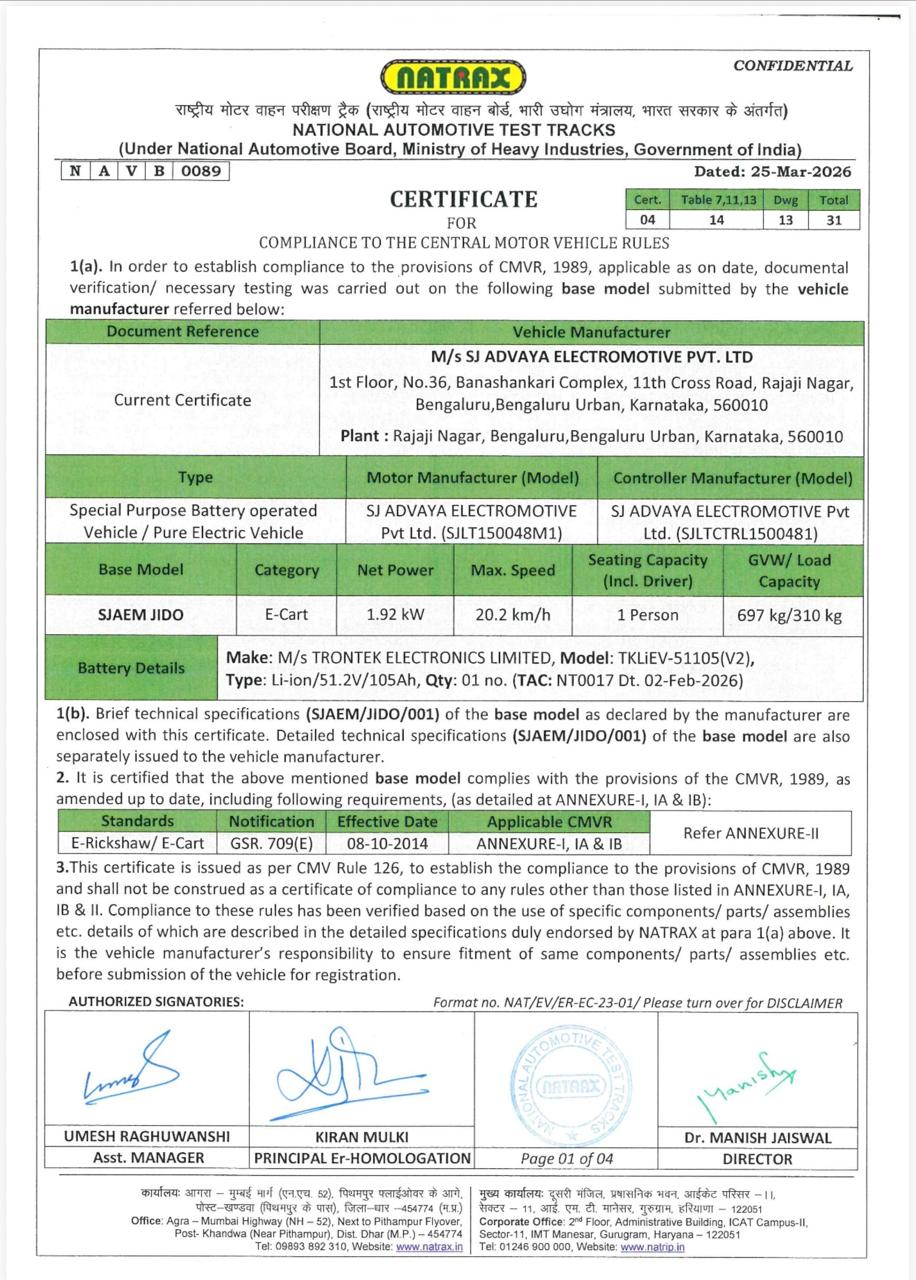
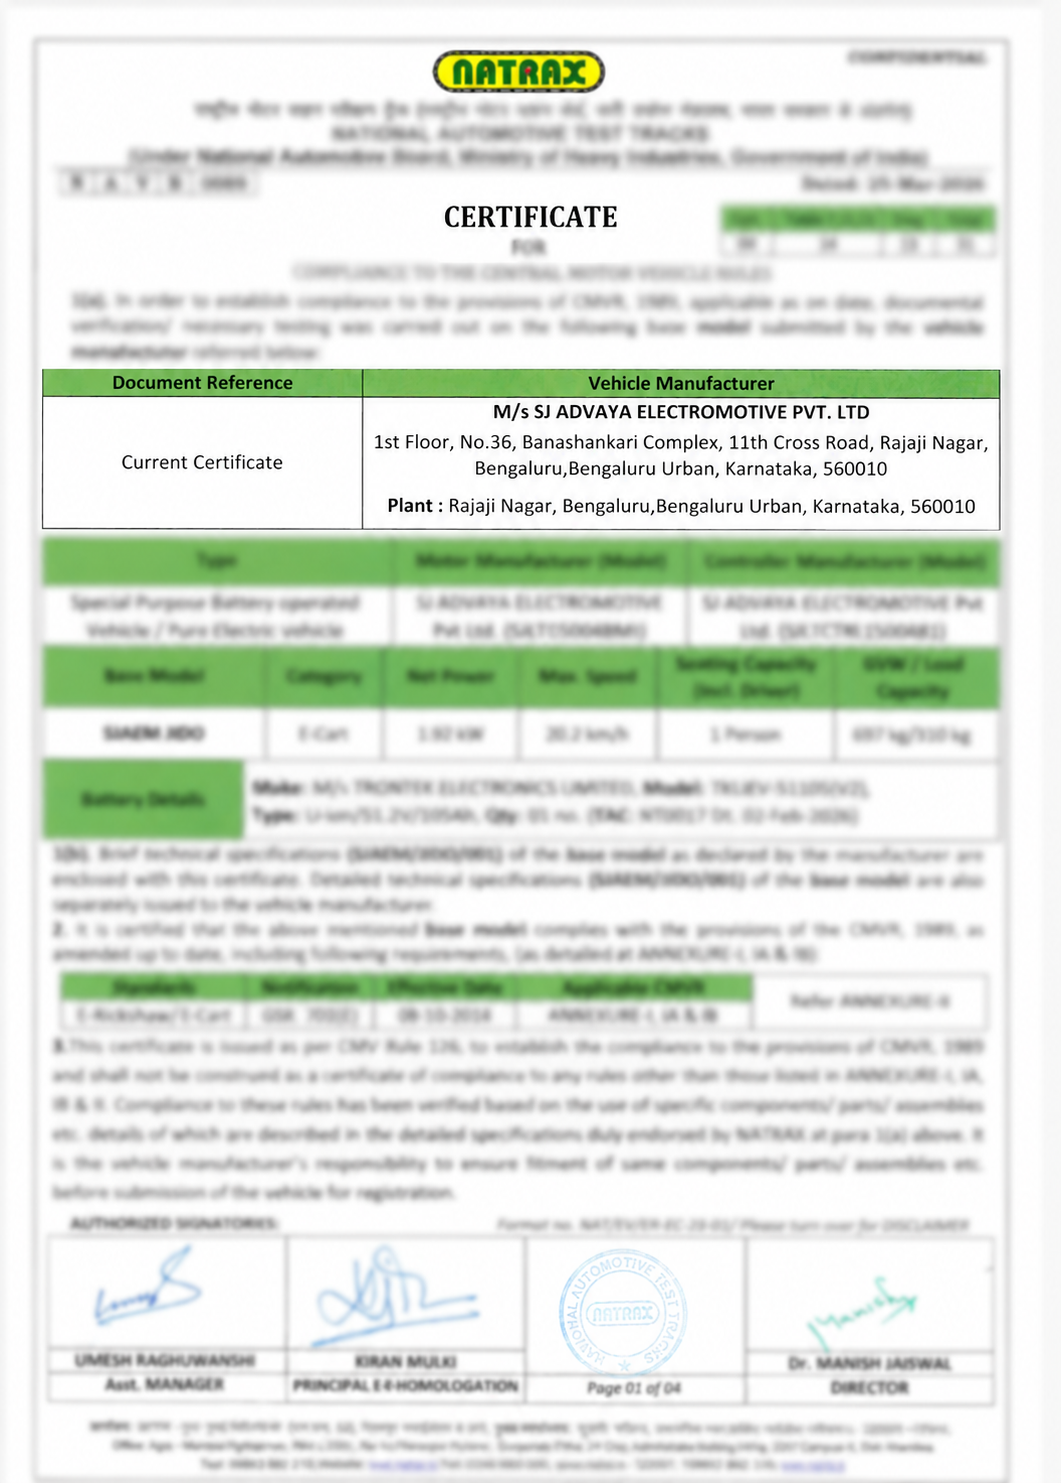
updated certificate image

diff --git a/src/components/Navbar.tsx b/src/components/Navbar.tsx
@@ -15,7 +15,7 @@ const Navbar: React.FC<NavbarProps> = ({ onLoginClick }) => {
       : "hover:text-green-400 transition-colors";
 
   return (
-    <nav className="fixed top-0 left-0 w-full z-50 bg-black/35 backdrop-blur-md relative">
+    <nav className="top-0 left-0 w-full z-50 bg-gradient-to-br from-[#0f172a] via-[#0b1a2b] to-[#0f172a] text-gray-300 relative">
       <div className="max-w-7xl mx-auto flex justify-between items-center px-6 py-2">
         {/* Logo */}
         <img src="/logo.png" alt="Logo" className="h-18 w-auto" />
@@ -42,10 +42,10 @@ const Navbar: React.FC<NavbarProps> = ({ onLoginClick }) => {
         {/* Desktop Login */}
         <div className="hidden md:block">
           <button
-            onClick={onLoginClick}
+            // onClick={onLoginClick}
             className=" text-white px-5 py-2 rounded hover:bg-green-700 transition-colors"
           >
-            User Login
+            {/* User Login */}
           </button>
         </div>
 
@@ -103,13 +103,13 @@ const Navbar: React.FC<NavbarProps> = ({ onLoginClick }) => {
               User Login
             </button> */}
             <button
-              onClick={() => {
-                setIsOpen(false);
-                onLoginClick?.();
-              }}
-              className="bg-green-600 text-white px-6 py-2 rounded hover:bg-green-700"
+              // onClick={() => {
+              //   setIsOpen(false);
+              //   onLoginClick?.();
+              // }}
+              // className="bg-green-600 text-white px-6 py-2 rounded hover:bg-green-700"
             >
-              User Login
+              {/* User Login */}
             </button>
           </div>
         </div>
